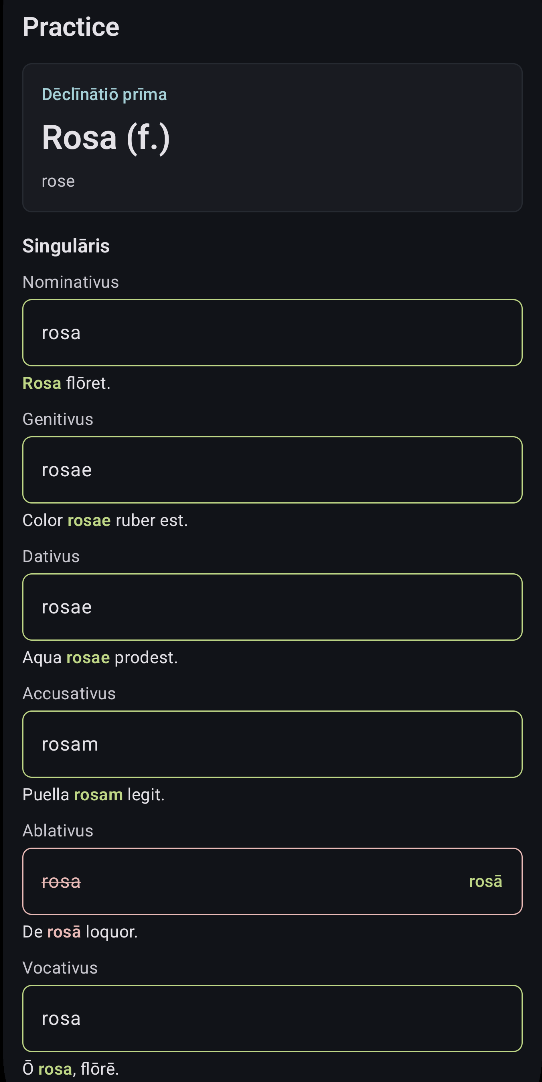
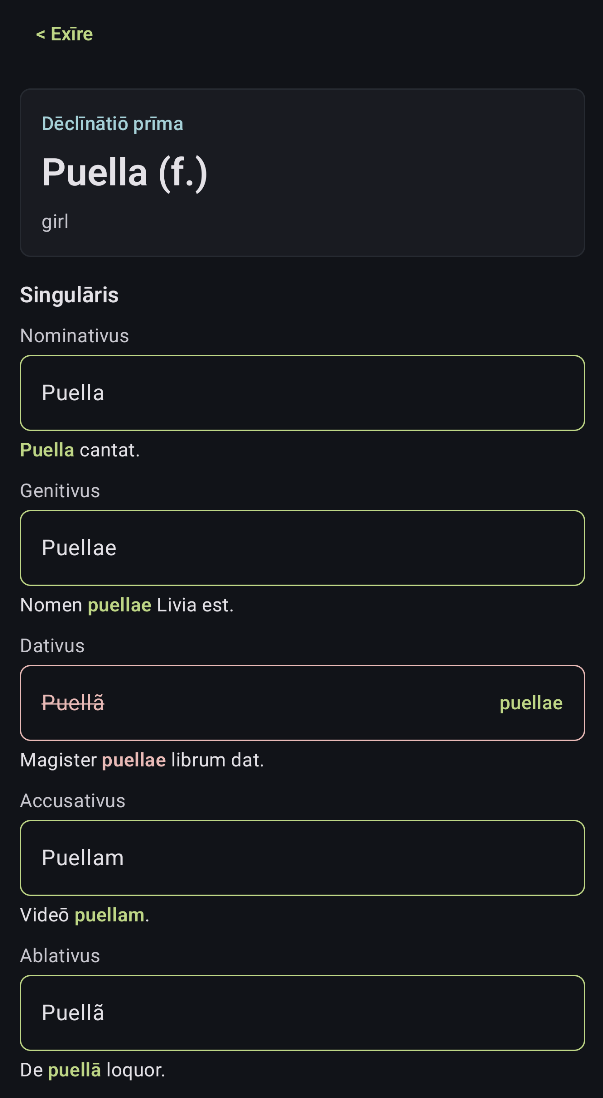
Fix images

diff --git a/index.html b/index.html
@@ -103,18 +103,6 @@
               src="assets/practice-phone.png"
               alt="Magister Virtuālis practice screen on a phone"
             />
-            <figcaption>
-              Practice rows stay vertical and easy to scan.
-            </figcaption>
-          </figure>
-          <figure class="device device--wide">
-            <img
-              src="assets/practice-tablet.png"
-              alt="Magister Virtuālis practice screen on a tablet"
-            />
-            <figcaption>
-              Tablet layouts keep the learning surface centered.
-            </figcaption>
           </figure>
         </div>
       </section>